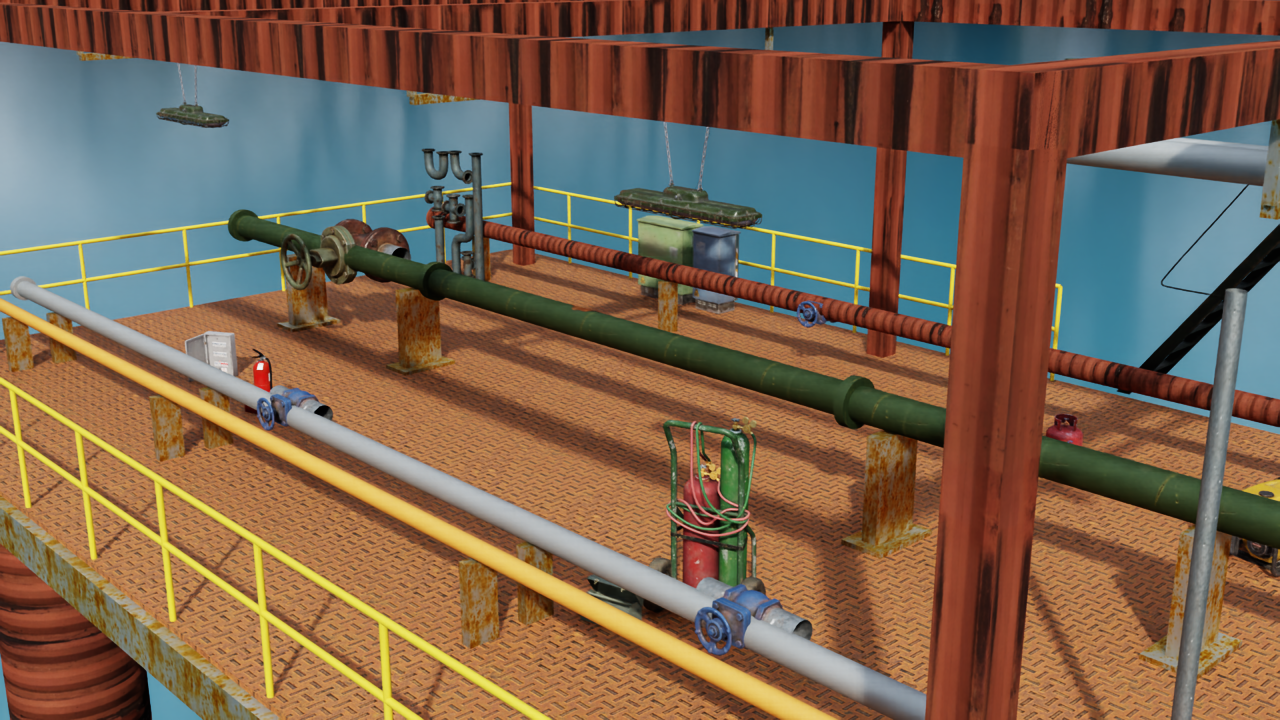
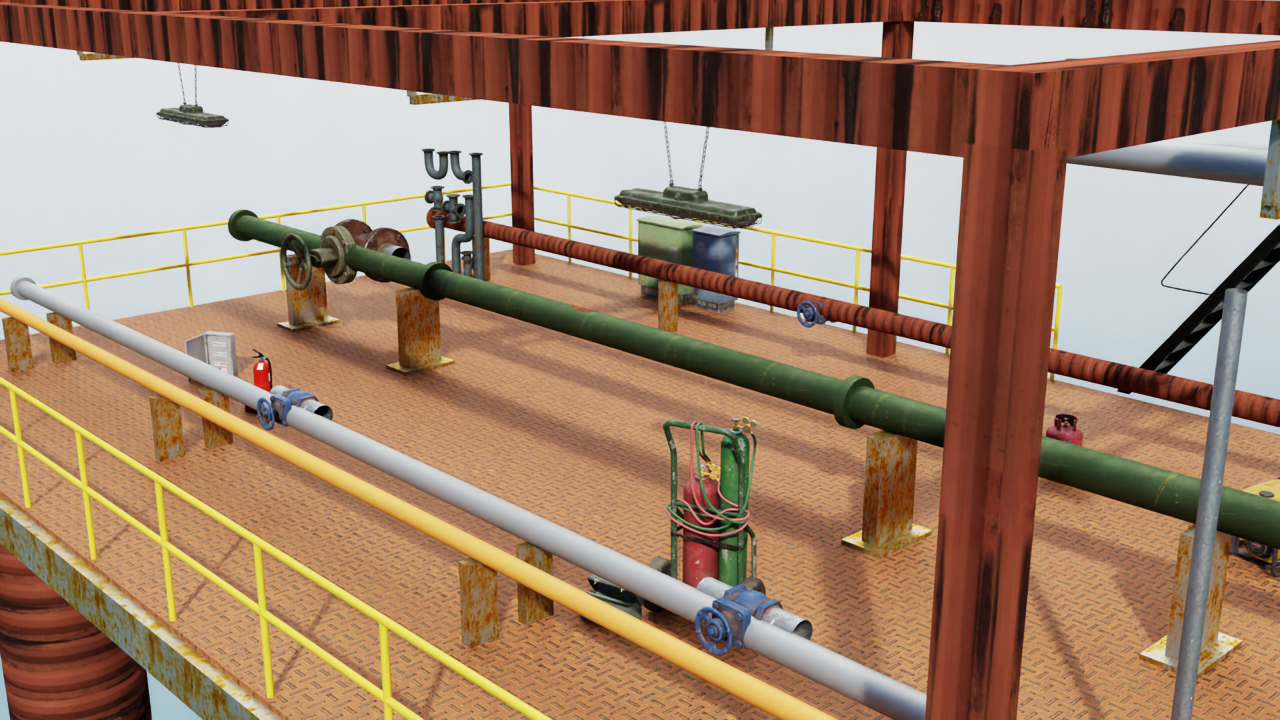
Use an open-water sky for the rig deck

diff --git a/sim/build_rig_deck.py b/sim/build_rig_deck.py
@@ -23,7 +23,7 @@ from pathlib import Path
 
 parser = argparse.ArgumentParser(description="Build the rig deck scene.")
 parser.add_argument("--seed", type=int, default=7, help="controls the damage position and shape")
-parser.add_argument("--hdri", default="gray_pier", help="sky name from sim/assets/manifest.json")
+parser.add_argument("--hdri", default="aristea_wreck", help="sky name from sim/assets/manifest.json")
 parser.add_argument("--robots", action="store_true", help="add two stand-in robots (needs internet)")
 parser.add_argument("--no-render", action="store_true", help="write the scene without previews")
 parser.add_argument("--width", type=int, default=1280)
